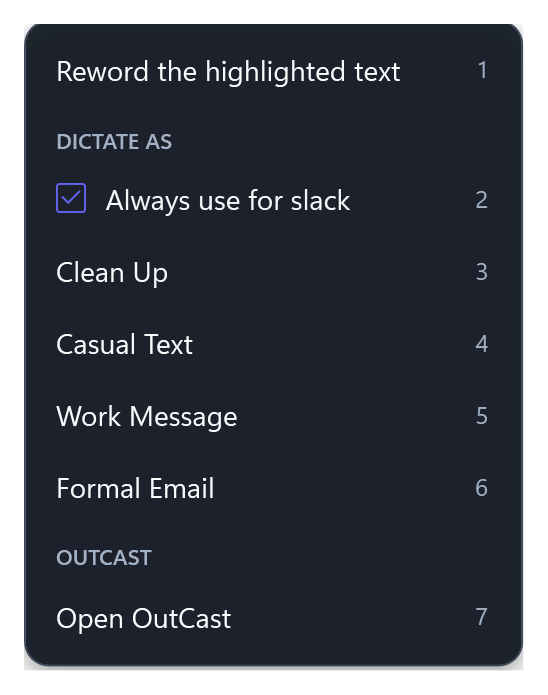
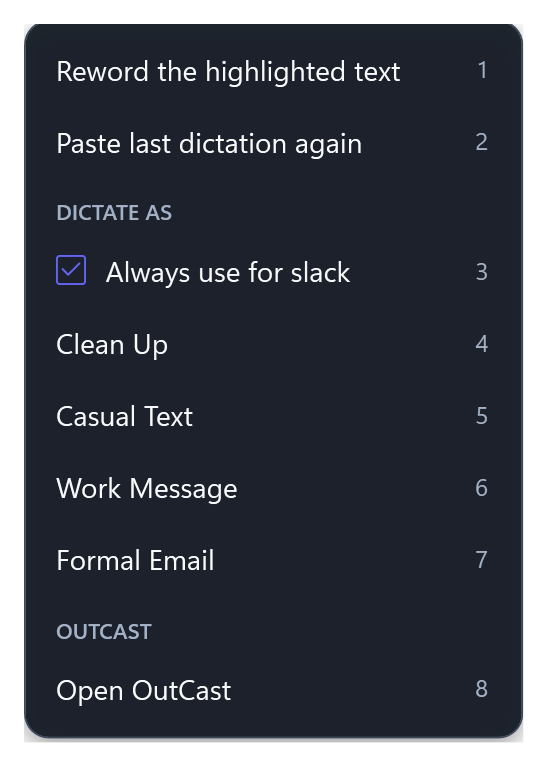
Site: 2.1.30 - hold to talk, a mouse button, paste last dictation again, mid-sentence corrections

diff --git a/site/index.html b/site/index.html
@@ -281,7 +281,7 @@
         <h2>Talk the way you talk</h2>
         <p class="muted">Ums, false starts and repeated words come out. Punctuation and capitals go in. You don't have to speak like a robot.</p>
         <ul>
-          <li><strong>Spoken cues.</strong> “New paragraph”, “bullet point”, “numbered list”, “scratch that”, “question mark”, “at sign”, “thumbs up emoji”: said, and done.</li>
+          <li><strong>Spoken cues.</strong> “New paragraph”, “bullet point”, “numbered list”, “scratch that”, “question mark”, “at sign”, “thumbs up emoji”: said, and done. Change your mind mid-sentence (“at 2, no wait, 3”) and only the correction is typed.</li>
           <li><strong>Vocabulary.</strong> Names and terms spelt your way, every time. A word that keeps coming out wrong gets a fix: <em>hears</em> Stefan, <em>types</em> Stephen.</li>
           <li><strong>Snippets.</strong> Say “my work address” and the whole address goes in, line breaks and all.</li>
           <li><strong>Exactly as spoken</strong> when you want your words untouched, with no AI at all.</li>
@@ -325,7 +325,7 @@
       </div>
       <div class="pair">
         <figure class="shot plain"><img loading="lazy" src="assets/menu-reword.png" width="548" height="887" alt="Reword menu: rewrite as Clean Up, Casual Text, Work Message or Formal Email; quick changes; say what to change"></figure>
-        <figure class="shot plain"><img loading="lazy" src="assets/menu-bubble.png" width="548" height="695" alt="Bubble menu: reword the highlighted text, dictate as a chosen style, and an Always use for this app tick box"></figure>
+        <figure class="shot plain"><img loading="lazy" src="assets/menu-bubble.png" width="548" height="767" alt="Bubble menu: reword the highlighted text, paste the last dictation again, dictate as a chosen style, and an Always use for this app tick box"></figure>
       </div>
     </div>
   </div>
@@ -364,7 +364,7 @@
         <h3><svg class="icon-svg" aria-hidden="true"><use href="#i-android"/></svg>Android</h3>
         <div class="bubbles"><img src="assets/phone-bubble-idle.jpg" width="187" height="187" alt="The bubble on Android, waiting"><img class="rec" src="assets/phone-bubble-recording.jpg" width="259" height="228" alt="The bubble on Android, listening, with its timer"><span>The bubble, waiting and listening.</span></div>
         <ul>
-          <li><strong>A floating bubble</strong> appears whenever you're in a text field. Tap, talk, tap. Long-press for styles; drag it onto ✕ to cancel.</li>
+          <li><strong>A floating bubble</strong> appears whenever you're in a text field. Tap, talk, tap. Long-press for styles, or to paste your last dictation again; drag it onto ✕ to cancel.</li>
           <li><strong>Ask OutCast by name.</strong> “OutCast, make it shorter”, “OutCast, draft a reply saying I'll be late”, “OutCast, what time did Mike say?”</li>
           <li><strong>Read it back</strong> before you send, and hear results spoken, so you needn't look.</li>
           <li><strong>Reads the conversation</strong> on screen, if you switch it on, to spell names right and match the tone.</li>
@@ -375,7 +375,7 @@
       <div class="platform">
         <h3><svg class="icon-svg" aria-hidden="true"><use href="#i-windows"/></svg>Windows</h3>
         <ul>
-          <li><strong>Three hotkeys</strong>: <kbd>Ctrl</kbd>+<kbd>Alt</kbd>+<kbd>D</kbd> to dictate, <kbd>Ctrl</kbd>+<kbd>Alt</kbd>+<kbd>R</kbd> to reword what's highlighted from a menu, <kbd>Ctrl</kbd>+<kbd>Alt</kbd>+<kbd>W</kbd> to reword it straight away. Change them to suit you.</li>
+          <li><strong>Hotkeys</strong>: <kbd>Ctrl</kbd>+<kbd>Alt</kbd>+<kbd>D</kbd> to dictate, or hold <kbd>Ctrl</kbd>+<kbd>Alt</kbd>+<kbd>H</kbd> while you talk and let go to write. <kbd>Ctrl</kbd>+<kbd>Alt</kbd>+<kbd>R</kbd> rewords what's highlighted from a menu, <kbd>Ctrl</kbd>+<kbd>Alt</kbd>+<kbd>W</kbd> straight away, and <kbd>Alt</kbd>+<kbd>Shift</kbd>+<kbd>Z</kbd> pastes your last dictation again. Change them to suit you, or make a mouse side button hold to talk.</li>
           <li><strong>A bubble</strong> you can click instead and drag anywhere, in four sizes and as see-through as you like, or kept out of chosen apps such as games. It never takes the focus from what you're typing in.</li>
           <li><strong>Works in any app that pastes</strong> with <kbd>Ctrl</kbd>+<kbd>V</kbd>. <kbd>Esc</kbd> cancels; <kbd>Ctrl</kbd>+<kbd>Z</kbd> undoes. If a paste doesn't show up, the text waits on the clipboard and you're told.</li>
           <li><strong>Light or dark</strong>, following Windows or your choice, with a side panel that stays out of the way.</li>
